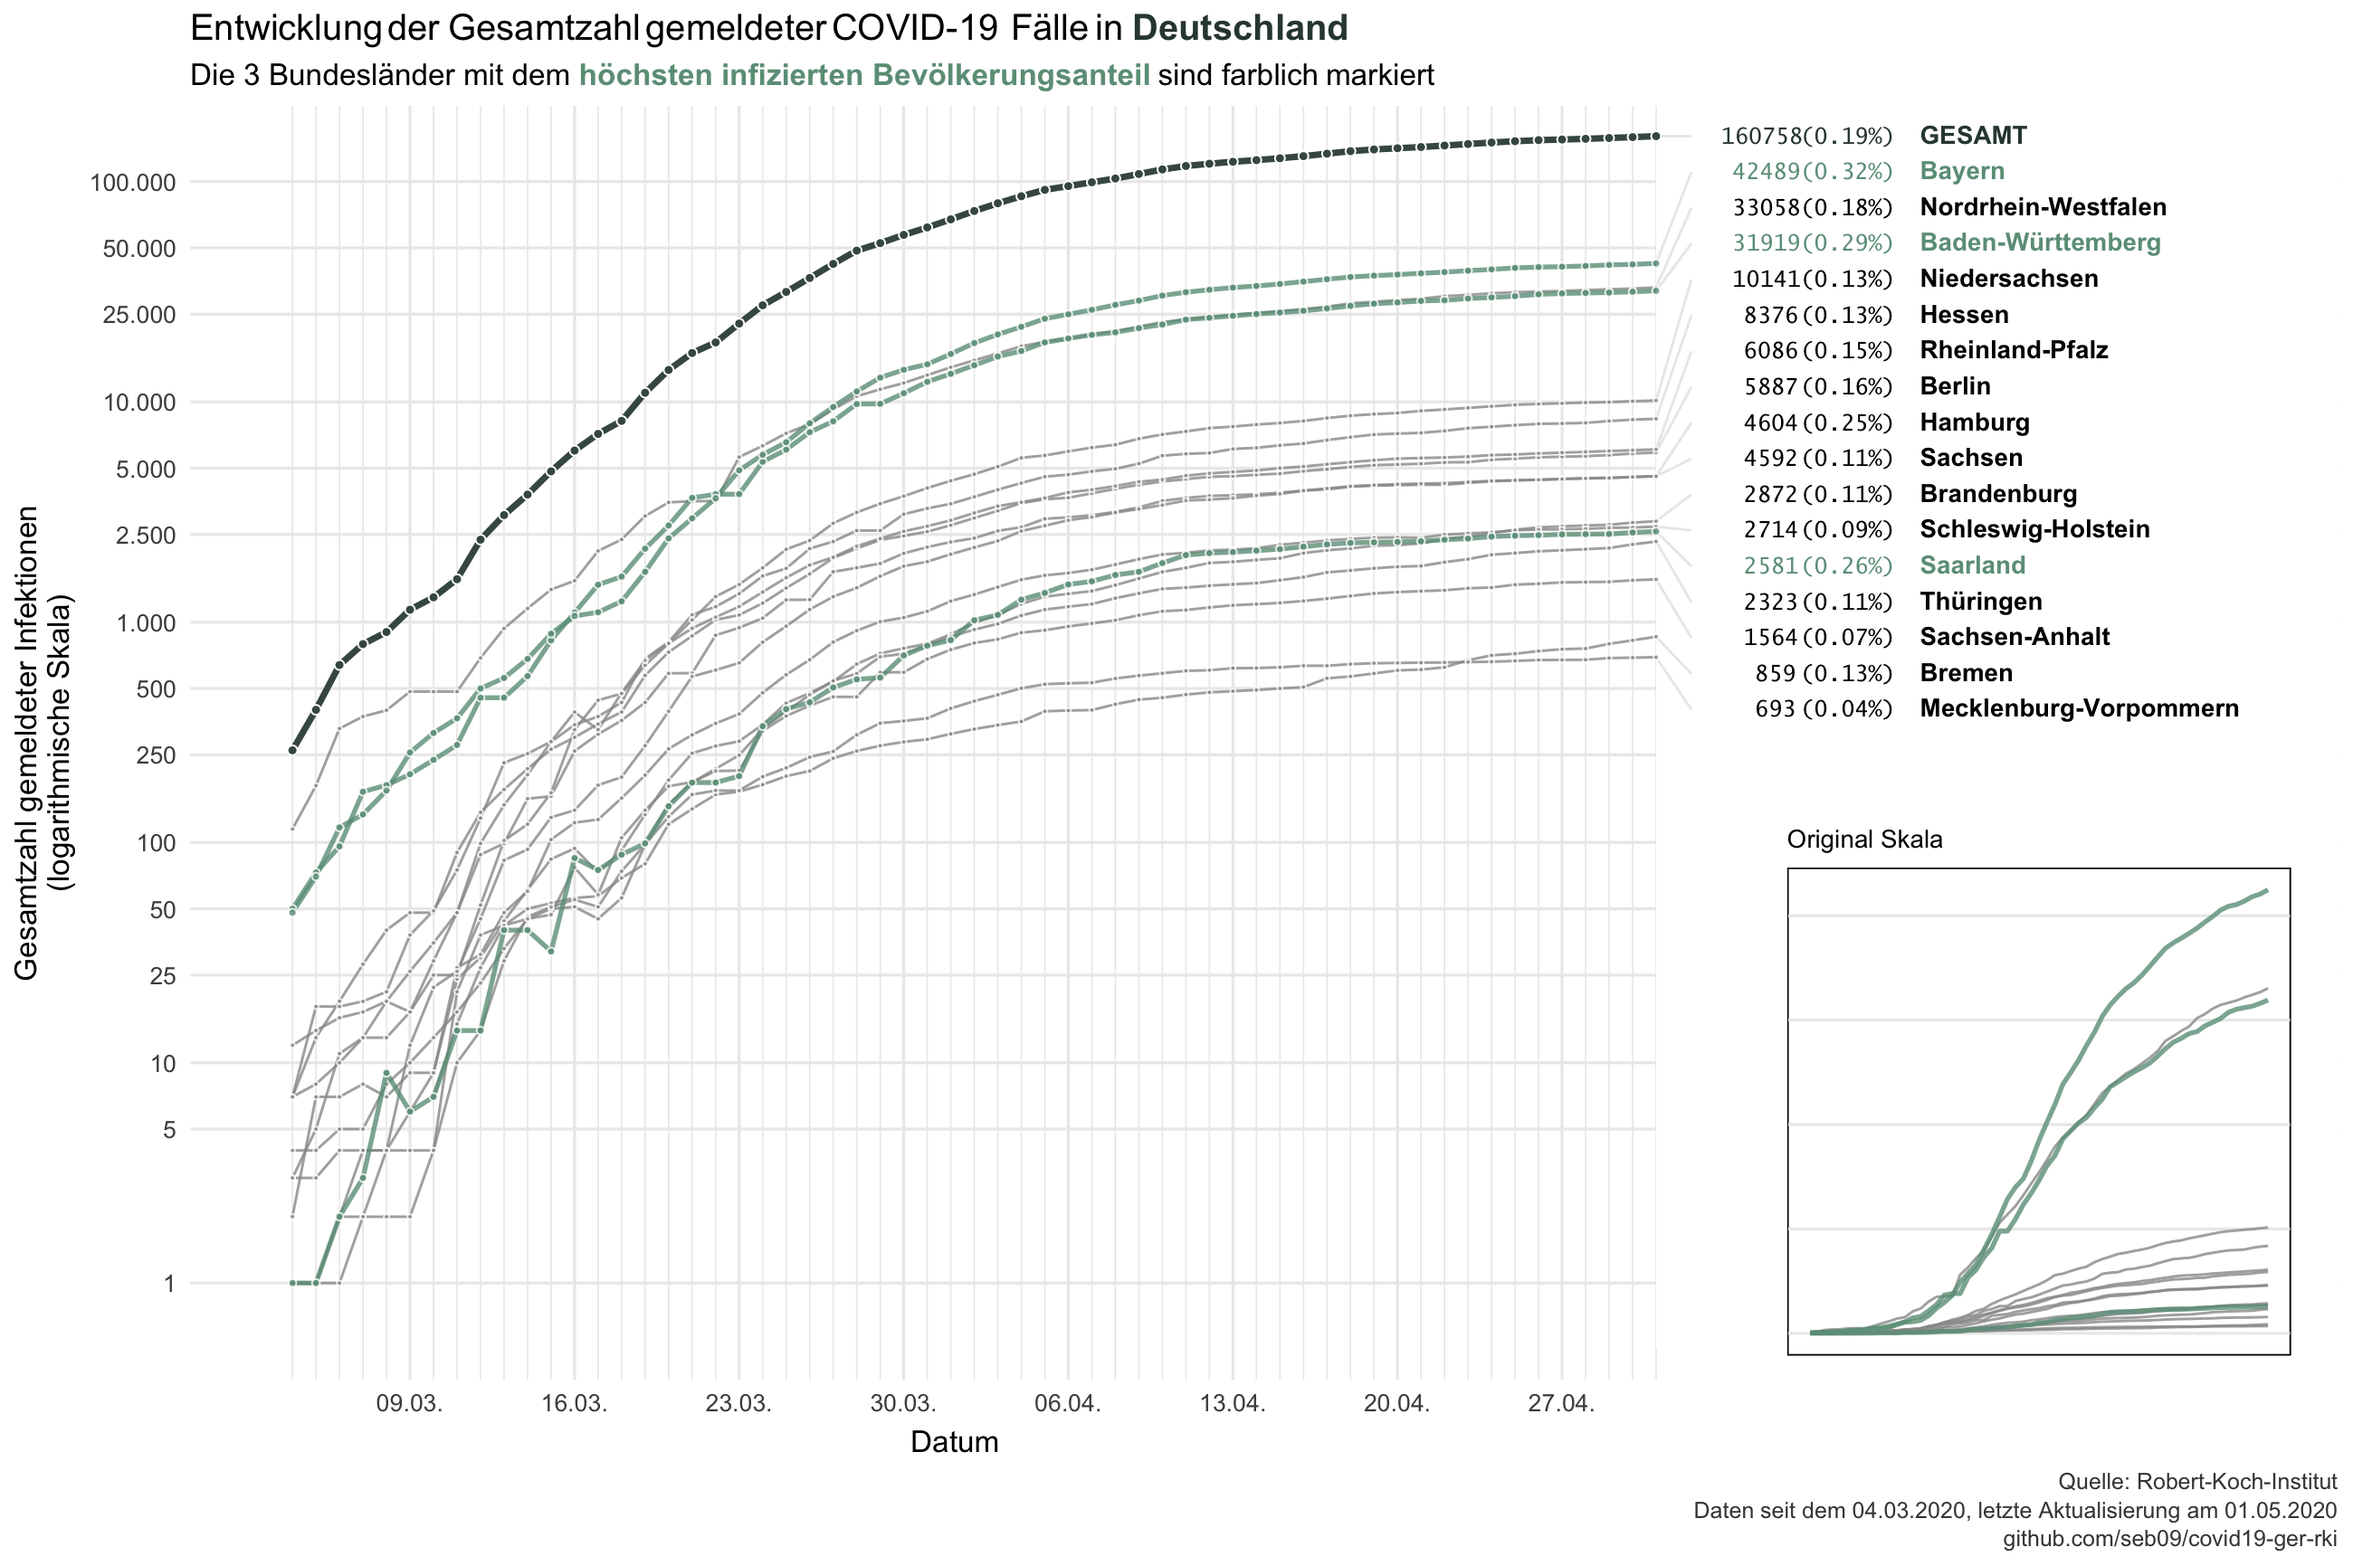
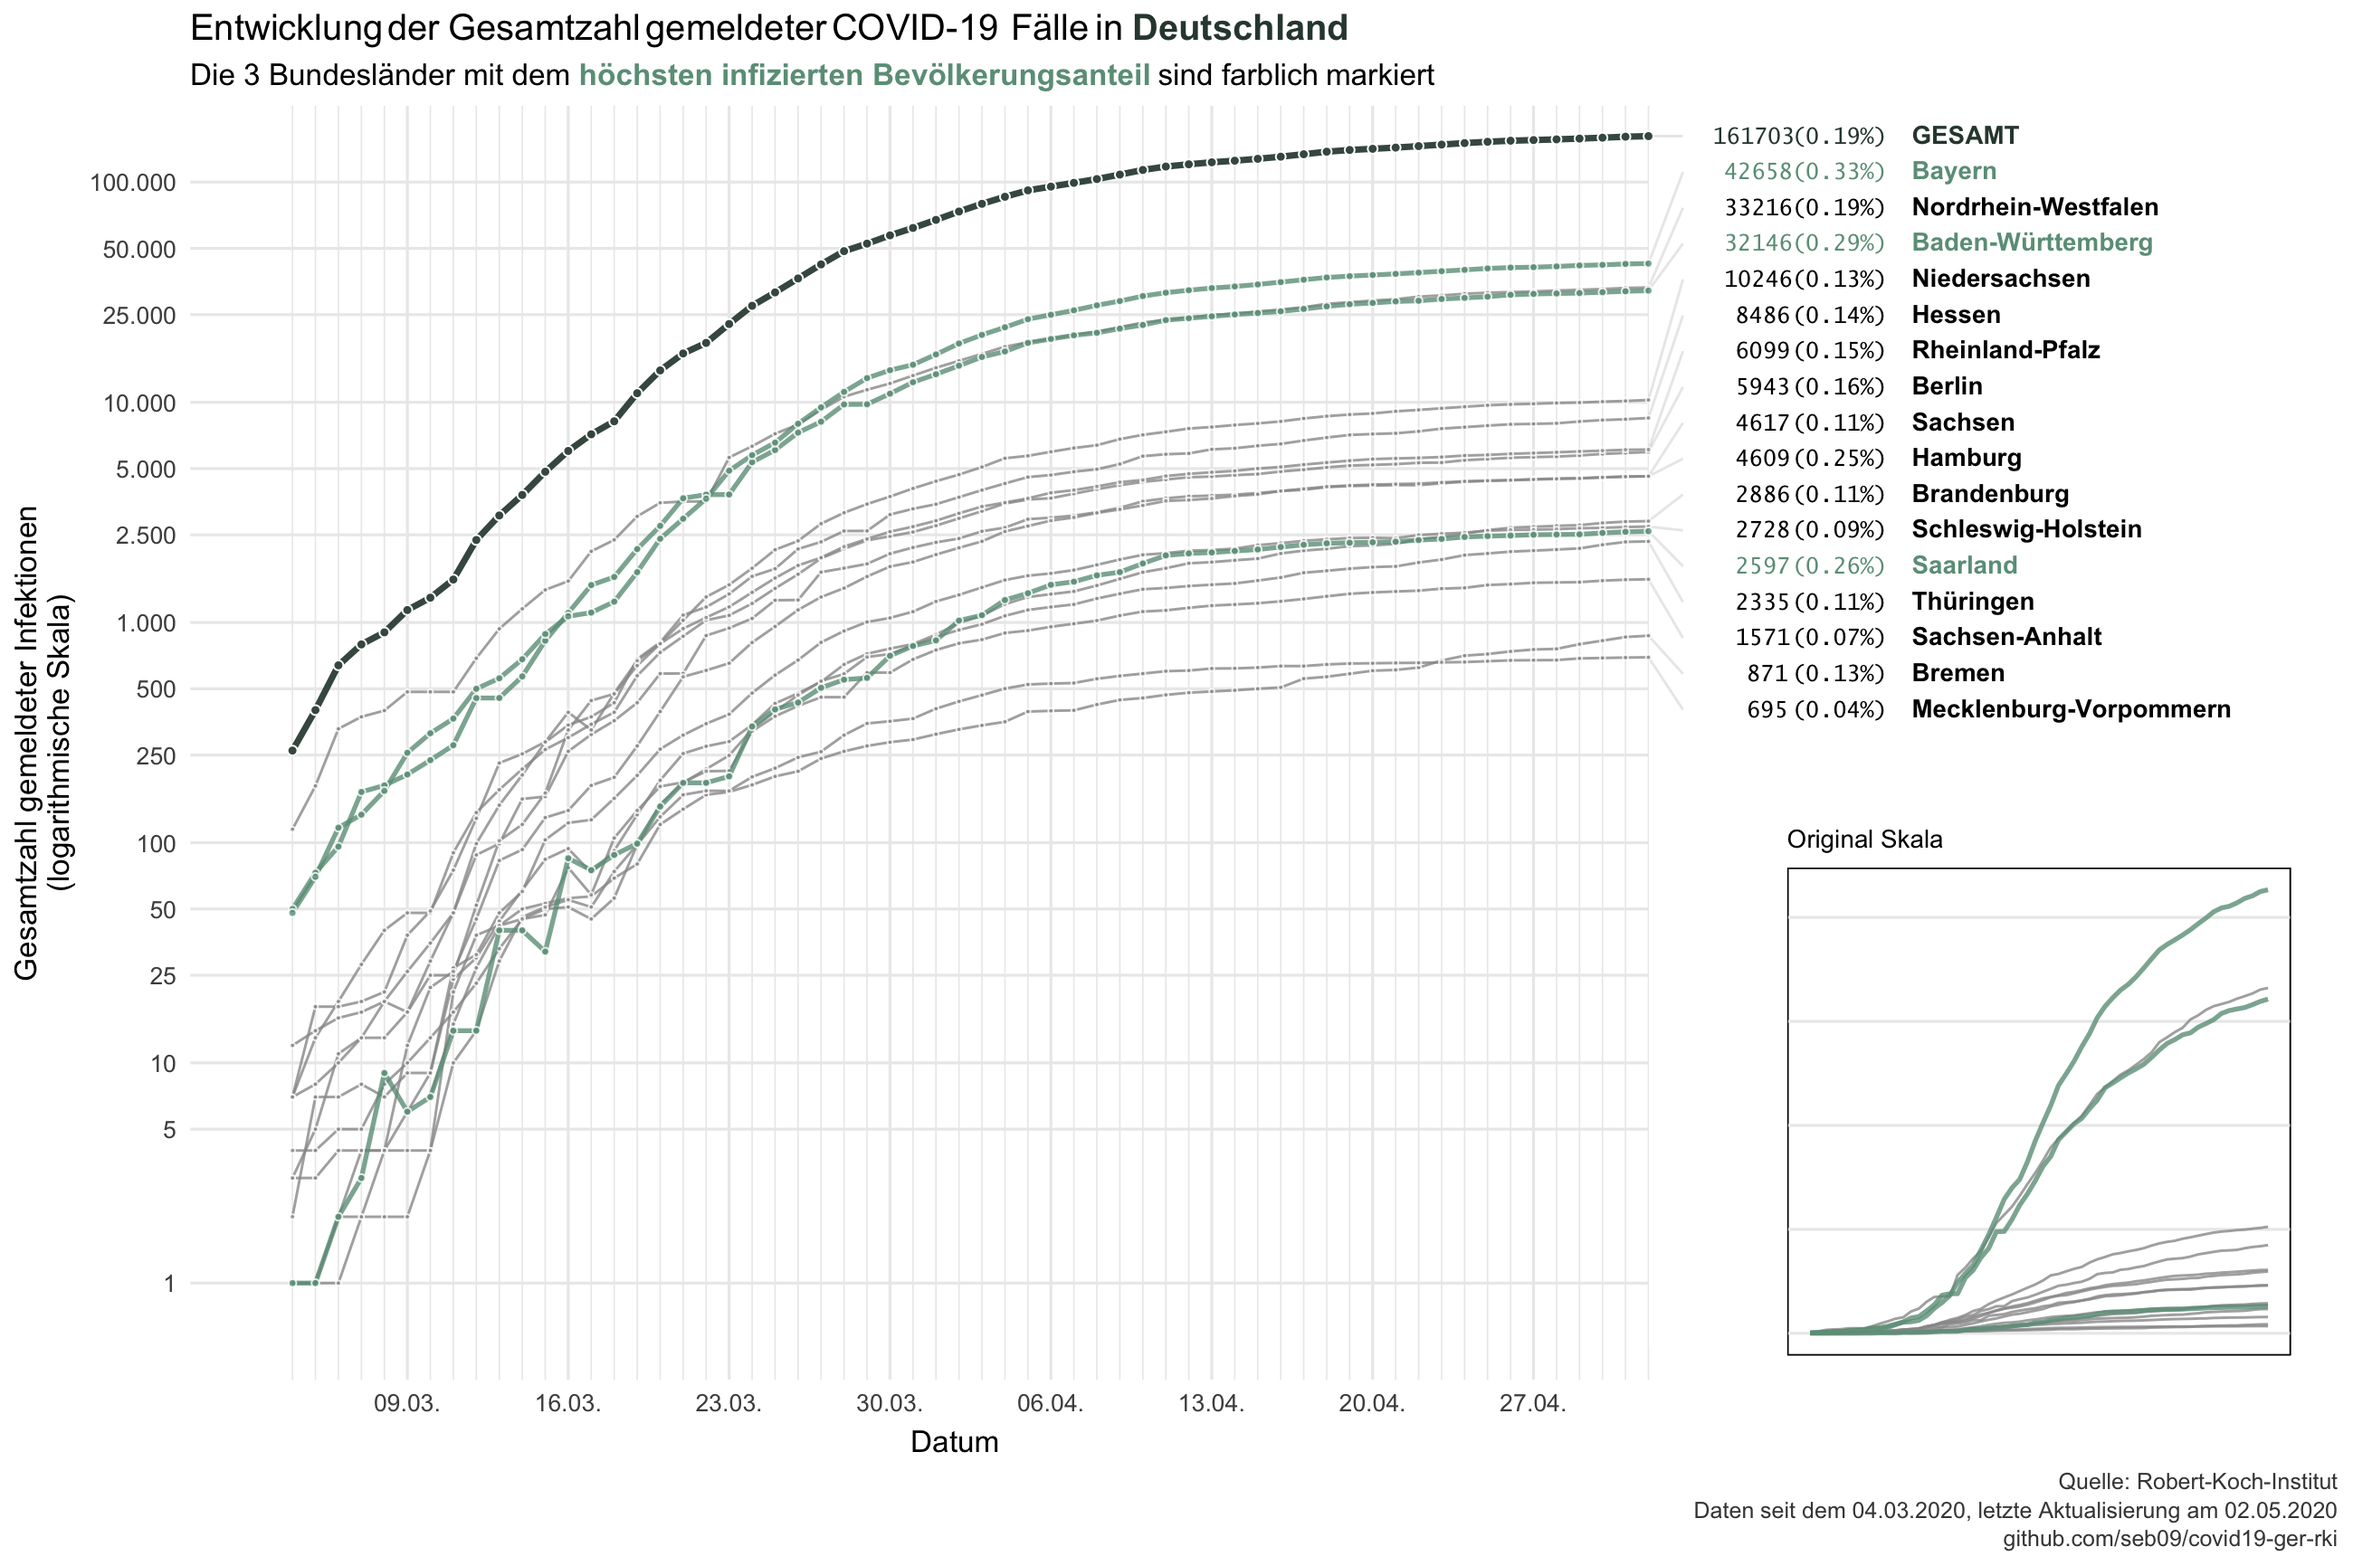
daily update 2020-05-02

diff --git a/README.md b/README.md
@@ -1,6 +1,6 @@
 Data from the Robert-Koch-Institut on COVID-19 in Germany
 ================
-Last update: 2020-05-01
+Last update: 2020-05-02
 
 This repository contains data on reported COVID-19 cases in Germany and
 its federal states that is published daily by the Robert-Koch-Institut
@@ -14,26 +14,26 @@ corona_rki %>%
   print(n = 16)
 ```
 
-    ## # A tibble: 938 x 6
+    ## # A tibble: 954 x 6
     ##    Datum      Bundesland      Fallzahl Todeszahl Fallzahl_neu Todeszahl_neu
     ##    <date>     <chr>              <dbl>     <dbl>        <dbl>         <dbl>
-    ##  1 2020-05-01 Baden-Württemb…    31919      1385          310            32
-    ##  2 2020-05-01 Bayern             42489      1850          409            51
-    ##  3 2020-05-01 Berlin              5887       149           60             2
-    ##  4 2020-05-01 Brandenburg         2872       120           41             7
-    ##  5 2020-05-01 Bremen               859        30           32             1
-    ##  6 2020-05-01 Hamburg             4604       163           42             8
-    ##  7 2020-05-01 Hessen              8376       360           72             7
-    ##  8 2020-05-01 Mecklenburg-Vo…      693        18            3             1
-    ##  9 2020-05-01 Niedersachsen      10141       429           74            13
-    ## 10 2020-05-01 Nordrhein-West…    33058      1261          371            42
-    ## 11 2020-05-01 Rheinland-Pfalz     6086       172           57             6
-    ## 12 2020-05-01 Saarland            2581       135           29             4
-    ## 13 2020-05-01 Sachsen             4592       162           31             6
-    ## 14 2020-05-01 Sachsen-Anhalt      1564        44           15             1
-    ## 15 2020-05-01 Schleswig-Hols…     2714       110           24             4
-    ## 16 2020-05-01 Thüringen           2323        93           69             8
-    ## # … with 922 more rows
+    ##  1 2020-05-02 Baden-Württemb…    32146      1402          227            17
+    ##  2 2020-05-02 Bayern             42658      1885          169            35
+    ##  3 2020-05-02 Berlin              5943       152           56             3
+    ##  4 2020-05-02 Brandenburg         2886       122           14             2
+    ##  5 2020-05-02 Bremen               871        30           12             0
+    ##  6 2020-05-02 Hamburg             4609       163            5             0
+    ##  7 2020-05-02 Hessen              8486       364          110             4
+    ##  8 2020-05-02 Mecklenburg-Vo…      695        18            2             0
+    ##  9 2020-05-02 Niedersachsen      10246       451          105            22
+    ## 10 2020-05-02 Nordrhein-West…    33216      1268          158             7
+    ## 11 2020-05-02 Rheinland-Pfalz     6099       173           13             1
+    ## 12 2020-05-02 Saarland            2597       135           16             0
+    ## 13 2020-05-02 Sachsen             4617       163           25             1
+    ## 14 2020-05-02 Sachsen-Anhalt      1571        44            7             0
+    ## 15 2020-05-02 Schleswig-Hols…     2728       112           14             2
+    ## 16 2020-05-02 Thüringen           2335        93           12             0
+    ## # … with 938 more rows
 
 Data is downloaded each day at 11am from the [website of the
 RKI](https://www.rki.de/DE/Content/InfAZ/N/Neuartiges_Coronavirus/Fallzahlen.html)
